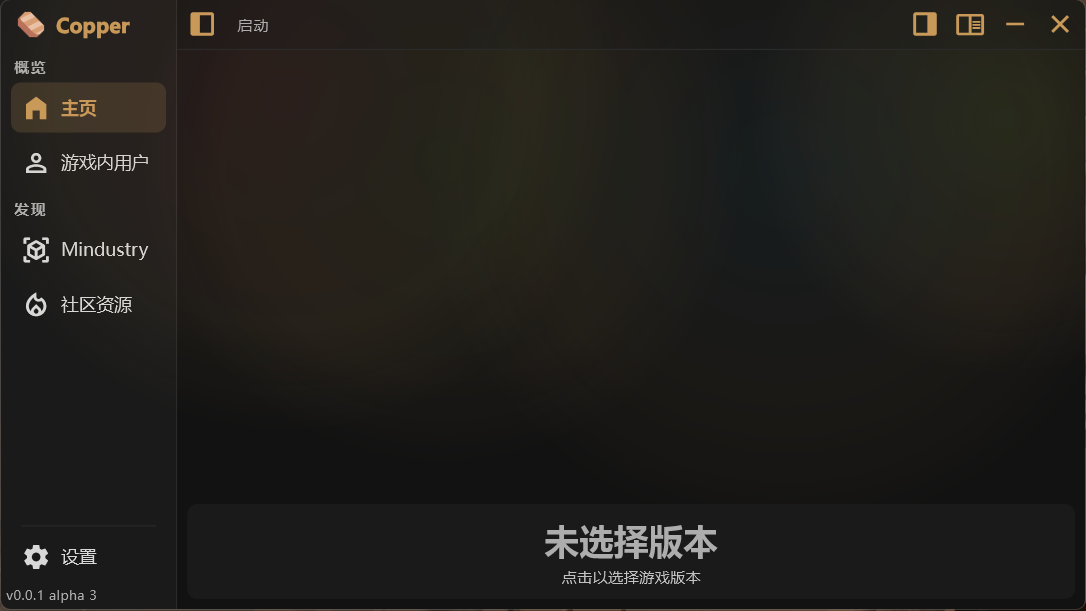
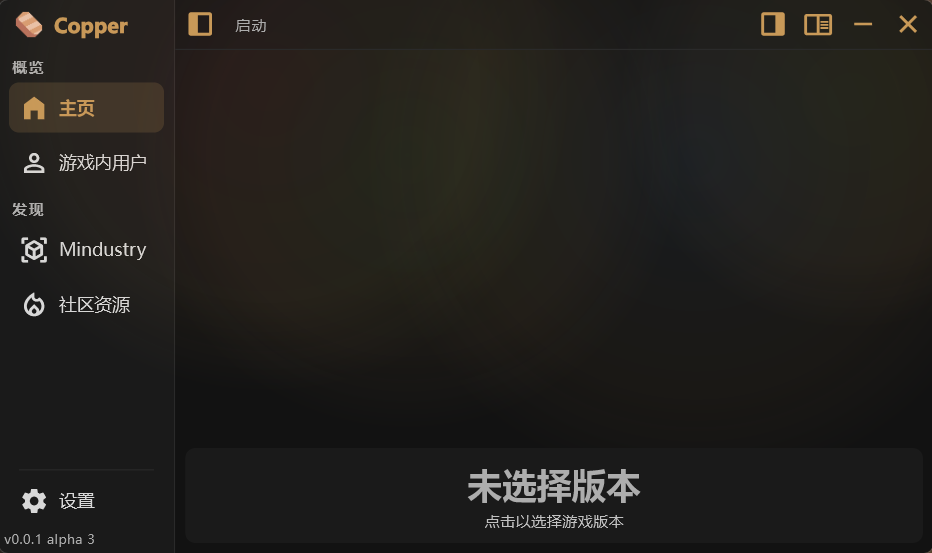
UI演示图片

diff --git a/.readme/README-en.md b/.readme/README-en.md
@@ -17,20 +17,6 @@ A multi-platform game launcher for [Mindustry](https://github.com/Anuken/Mindust
   <img src="UI-demo.png" alt="Copper Launcher interface preview" width="900">
 </p>
 
-## Table of Contents
-
-- [Copper Launcher](#copper-launcher)
-  - [Table of Contents](#table-of-contents)
-  - [Supported Platforms](#supported-platforms)
-  - [Features](#features)
-    - [Version Management](#version-management)
-    - [Launching the Game](#launching-the-game)
-    - [Mod Management](#mod-management)
-    - [Network & Downloads](#network--downloads)
-    - [Interface](#interface)
-  - [Building from Source](#building-from-source)
-  - [Acknowledgements](#acknowledgements)
-
 ## Supported Platforms
 
 | Platform | Status |
